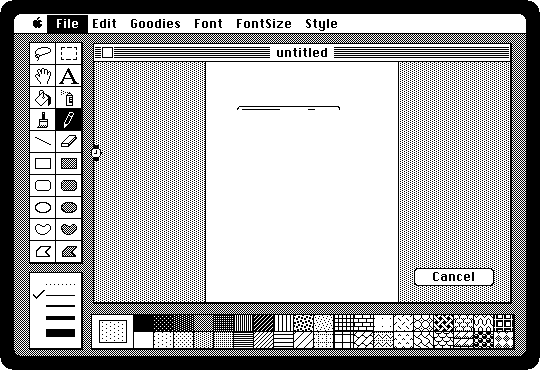
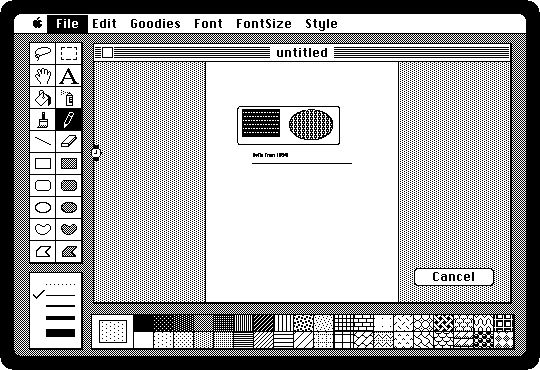
Show MacPaint's page drawn whole while it prints

Changed region(s): [[0.4444, 0.2973, 0.6222, 0.4459]]

diff --git a/activities_test.go b/activities_test.go
@@ -89,6 +89,13 @@ func framed(screen image.Image, label string) *image.RGBA {
 // which says whose it is when there are two
 func screenshotOf(t *testing.T, m *Mac, activity string, name string, label string) {
 	t.Helper()
+	writeScreenshot(t, m.GetImage(), activity, name, label)
+}
+
+// writeScreenshot writes a screen, taken before, as one of the images of an
+// activity
+func writeScreenshot(t *testing.T, screen image.Image, activity string, name string, label string) {
+	t.Helper()
 	folder := filepath.Join(activityImages, activity)
 	if err := os.MkdirAll(folder, 0o755); err != nil {
 		t.Fatal(err)
@@ -98,7 +105,7 @@ func screenshotOf(t *testing.T, m *Mac, activity string, name string, label stri
 		t.Fatal(err)
 	}
 	defer f.Close()
-	if err := png.Encode(f, framed(m.GetImage(), label)); err != nil {
+	if err := png.Encode(f, framed(screen, label)); err != nil {
 		t.Fatal(err)
 	}
 }
@@ -308,13 +315,23 @@ func macPaintScreenshots(t *testing.T) {
 	m.RunFrames(300)
 
 	// Print Final, and the page the ImageWriter printed
+	// The screen is kept a second at a time while it prints, and the last
+	// one before the page comes out is the one of the page drawn whole
 	chooseFromMenu(t, m, 55, 139)
-	m.RunFrames(300)
-	screenshot(t, m, page, "printing")
 	printed := config.PrinterFile + "_001.png"
-	if !waitUntil(m, 300, func() bool { return exists(printed) }) {
-		t.Fatalf("MacPaint printed nothing")
+	var lastBeforeThePage image.Image
+	for second := 0; !exists(printed); second++ {
+		if second == 300 {
+			t.Fatalf("MacPaint printed nothing")
+		}
+		// The machine draws its screen into the same image every time
+		screen := m.GetImage()
+		kept := image.NewRGBA(screen.Bounds())
+		copy(kept.Pix, screen.Pix)
+		lastBeforeThePage = kept
+		m.RunFrames(60)
 	}
+	writeScreenshot(t, lastBeforeThePage, page, "printing", "")
 	m.RunFrames(600)
 	data, err := os.ReadFile(printed)
 	if err != nil {
